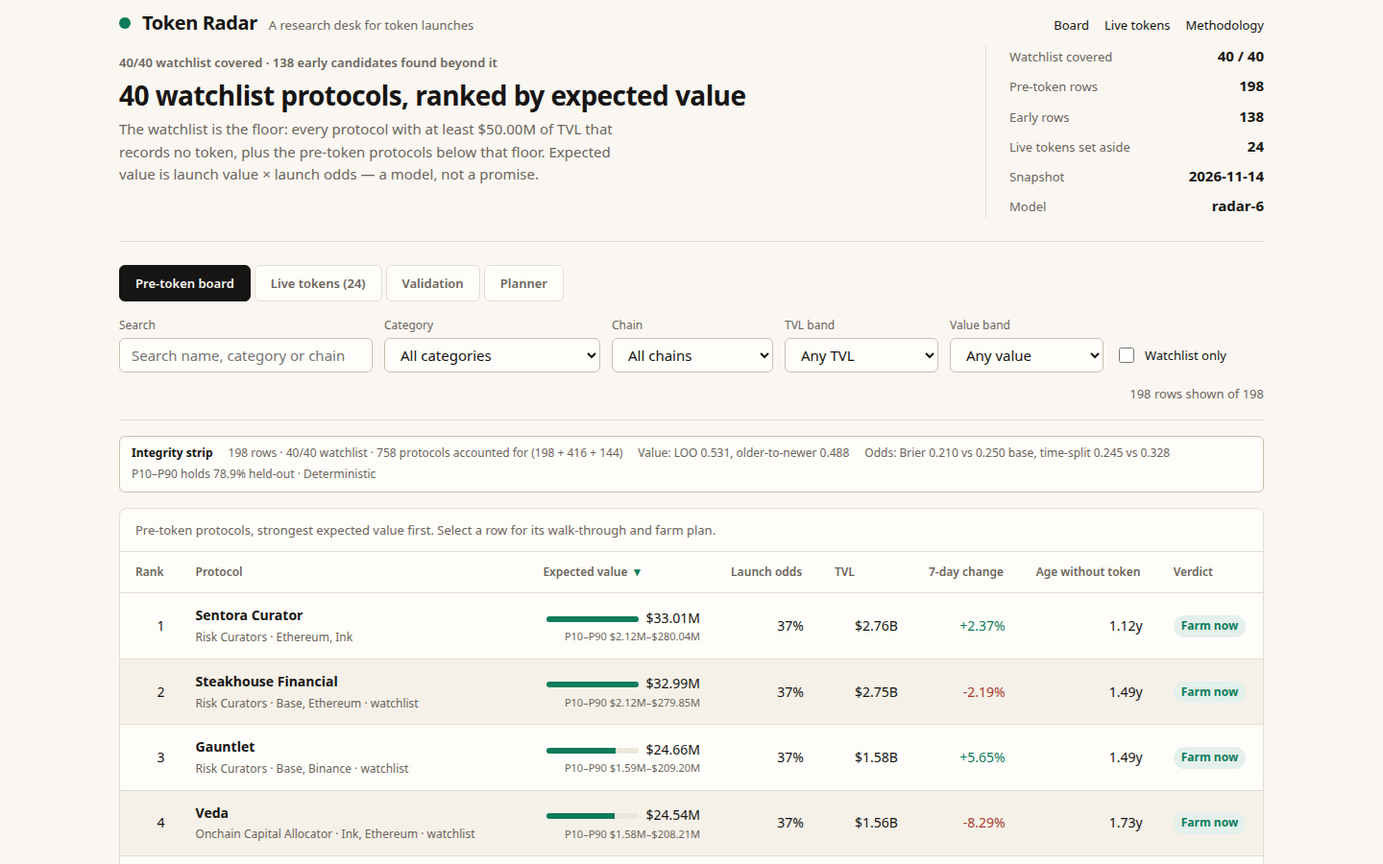
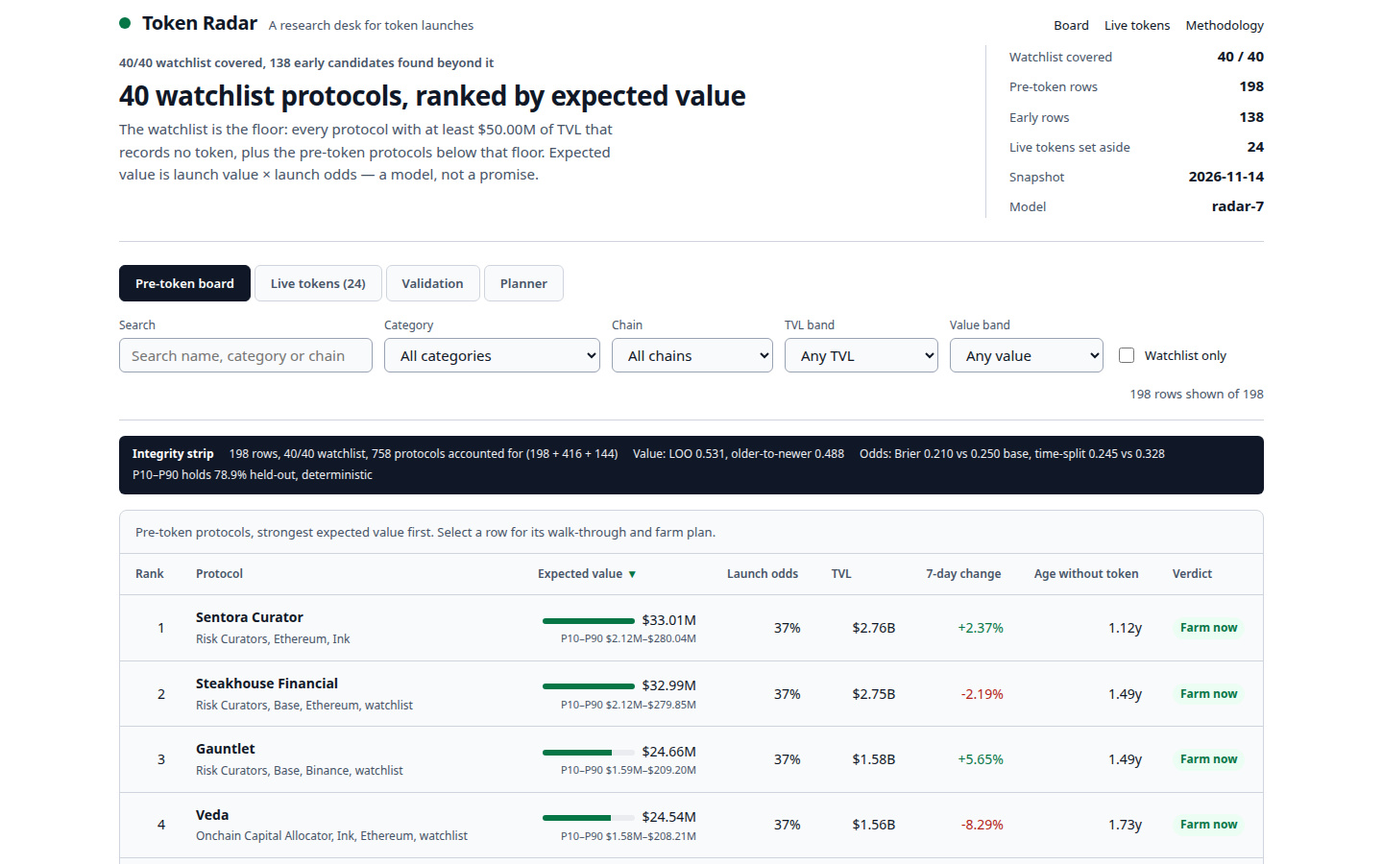
token-radar-01 v7: dossier-only upgrade, OLS x odds kept (radar-7)

diff --git a/dashboard/app.js b/dashboard/app.js
@@ -1,4 +1,4 @@
-/* Token Radar (radar-6). Reads window.RADAR; renders board, live tokens, detail, methodology, validation, planner. All figures recomputed in-page; nothing fetched. */
+/* Token Radar (radar-7). Reads window.RADAR; renders board, live tokens, detail, methodology, validation, planner. All figures recomputed in-page; nothing fetched. */
 (function () {
   'use strict';
   var DATA = window.RADAR || null;
@@ -286,7 +286,7 @@
 
   function coverageLine() {
     var w = DATA.watchlist_size || 0, early = (DATA.early_size !== undefined) ? DATA.early_size : Math.max(0, (DATA.board_size || DATA.rows.length) - w);
-    return w + '/' + w + ' watchlist covered · ' + num0.format(early) + ' early candidates found beyond it';
+    return w + '/' + w + ' watchlist covered, ' + num0.format(early) + ' early candidates found beyond it';
   }
   
   function oddsSummary() {
@@ -309,7 +309,7 @@
     var live = (DATA && DATA.live_total !== undefined) ? DATA.live_total : 416;
     var excl = (DATA && DATA.excluded_pre_token !== undefined) ? DATA.excluded_pre_token : 144;
     var rows = DATA.board_size || DATA.rows.length;
-    return '<div class="strip"><b>Integrity strip</b><span>' + num0.format(rows) + ' rows · ' + num0.format(DATA.watchlist_size || 0) + '/' + num0.format(DATA.watchlist_size || 0) + ' watchlist · ' + num0.format(total) + ' protocols accounted for (' + num0.format(rows) + ' + ' + num0.format(live) + ' + ' + num0.format(excl) + ')</span><span>Value: LOO 0.531, older-to-newer 0.488</span><span>Odds: Brier 0.210 vs 0.250 base, time-split 0.245 vs 0.328</span><span>P10–P90 holds 78.9% held-out · Deterministic</span></div>';
+    return '<div class="strip"><b>Integrity strip</b><span>' + num0.format(rows) + ' rows, ' + num0.format(DATA.watchlist_size || 0) + '/' + num0.format(DATA.watchlist_size || 0) + ' watchlist, ' + num0.format(total) + ' protocols accounted for (' + num0.format(rows) + ' + ' + num0.format(live) + ' + ' + num0.format(excl) + ')</span><span>Value: LOO 0.531, older-to-newer 0.488</span><span>Odds: Brier 0.210 vs 0.250 base, time-split 0.245 vs 0.328</span><span>P10–P90 holds 78.9% held-out, deterministic</span></div>';
   }
   function ledeHtml() {
     return '<section class="lede"><div><p class="cover">' + esc(coverageLine()) + '</p>' +
@@ -321,7 +321,7 @@
       '<div class="fact"><span>Early rows</span><b>' + num0.format((DATA.early_size !== undefined) ? DATA.early_size : 0) + '</b></div>' +
       '<div class="fact"><span>Live tokens set aside</span><b>' + num0.format(DATA.live_size || (DATA.live || []).length) + '</b></div>' +
       '<div class="fact"><span>Snapshot</span><b>' + esc(DATA.as_of || '') + '</b></div>' +
-      '<div class="fact"><span>Model</span><b>' + esc(DATA.model_version || 'radar-6') + '</b></div></div></section>';
+      '<div class="fact"><span>Model</span><b>' + esc(DATA.model_version || 'radar-7') + '</b></div></div></section>';
   }
   function tabsHtml() {
     return '<div class="tabs"><a href="#/" aria-current="' + (state.view === 'board' ? 'true' : 'false') + '">Pre-token board</a>' +
@@ -345,7 +345,7 @@
       var p90 = (r.value_p90_usd !== undefined) ? r.value_p90_usd : pValueOf(r, 1);
       var rangeTxt = (p10 === null || p90 === null) ? '' : '<span class="band">P10–P90 ' + fmtShort(p10) + '–' + fmtShort(p90) + '</span>';
       return '<tr data-slug="' + esc(r.slug) + '" tabindex="0"><td class="num">' + num0.format(r.rank) + '</td>' +
-        '<td><div class="name"><b>' + esc(r.name) + '</b><span>' + esc(r.category || 'Other') + ' · ' + esc((r.chains || []).slice(0, 2).join(', ') || 'chain not listed') + (r.watchlist ? ' · watchlist' : '') + '</span></div></td>' +
+        '<td><div class="name"><b>' + esc(r.name) + '</b><span>' + esc(r.category || 'Other') + ', ' + esc((r.chains || []).slice(0, 2).join(', ') || 'chain not listed') + (r.watchlist ? ', watchlist' : '') + '</span></div></td>' +
         '<td class="num"><span class="bar" aria-hidden="true"><i style="width:' + pct + '%"></i></span>' + fmtShort(r.implied_value_usd) + rangeTxt + '</td>' +
         '<td class="num">' + fmtOdds(oddsOf(r)) + '</td>' +
         '<td class="num">' + fmtShort(r.tvl_usd) + '</td>' +
@@ -368,7 +368,7 @@
       '<span class="count">' + num0.format(list.length) + ' rows shown of ' + num0.format(DATA.rows.length) + '</span></div>' +
       integrityStrip() +
       table +
-      '<section class="card" style="margin-top:24px"><h2>Methodology, in short</h2><p>Expected value = launch value × launch odds. Launch value is the fitted curve 10^(' + (REG ? num4.format(REG.intercept) : '3.0247') + ' + ' + (REG ? num4.format(REG.slope) : '0.5223') + ' × log10(TVL)), fitted from the ' + (REG && REG.count !== undefined ? num0.format(REG.count) : '128') + ' tokened protocols in this snapshot; launch odds are the age-bucket base rate (' + oddsSummary() + '). Each value carries a P10–P90 range (held-out coverage 78.9%) and a net $/hour at P10; the category median is a cross-check. ' + esc(coverageLine()) + '. <a href="#/methodology">Full methodology</a> · <a href="#/validation">Validation panel</a> · <a href="#/planner">Portfolio planner</a>.</p></section>';
+      '<section class="card" style="margin-top:24px"><h2>Methodology, in short</h2><p>Expected value = launch value × launch odds. Launch value is the fitted curve 10^(' + (REG ? num4.format(REG.intercept) : '3.0247') + ' + ' + (REG ? num4.format(REG.slope) : '0.5223') + ' × log10(TVL)), fitted from the ' + (REG && REG.count !== undefined ? num0.format(REG.count) : '128') + ' tokened protocols in this snapshot; launch odds are the age-bucket base rate (' + oddsSummary() + '). Each value carries a P10–P90 range (held-out coverage 78.9%) and a net $/hour at P10; the category median is a cross-check. ' + esc(coverageLine()) + '. <a href="#/methodology">Full methodology</a>, <a href="#/validation">Validation panel</a>, <a href="#/planner">Portfolio planner</a>.</p></section>';
     bindBoard();
   }
   function bindBoard() {
@@ -387,7 +387,7 @@
     var rowsHtml = live.map(function (r) {
       var mult = (r.mcap_usd && r.tvl_usd) ? num2.format(r.mcap_usd / r.tvl_usd) + 'x' : 'n/a';
       var cls = r.change_7d === null ? '' : (r.change_7d >= 0 ? ' pos' : ' neg');
-      return '<tr><td><div class="name"><b>' + esc(r.name) + '</b><span>' + esc(r.category || 'Other') + ' · ' + esc((r.chains || []).slice(0, 2).join(', ') || 'chain not listed') + '</span></div></td>' +
+      return '<tr><td><div class="name"><b>' + esc(r.name) + '</b><span>' + esc(r.category || 'Other') + ', ' + esc((r.chains || []).slice(0, 2).join(', ') || 'chain not listed') + '</span></div></td>' +
         '<td class="num">' + fmtShort(r.tvl_usd) + '</td><td class="num">' + fmtShort(r.mcap_usd) + '</td>' +
         '<td class="num">' + mult + '</td><td class="num' + cls + '">' + fmtPct(r.change_7d) + '</td>' +
         '<td><span class="badge live">already trades</span></td></tr>';
@@ -405,11 +405,11 @@
       return '<tr data-slug="' + esc(r.slug) + '" tabindex="0"><td class="num">' + num0.format(r.rank) + '</td><td><div class="name"><b>' + esc(r.name) + '</b><span>' + esc(r.category || 'Other') + '</span></div></td><td class="num">$' + num0.format(cap) + '</td><td class="num">' + num2.format(hrsMin(r.age_days) / 60) + ' h</td><td class="num">' + fmtShort(r.implied_value_usd) + '</td></tr>';
     }).join('');
     app.innerHTML = ledeHtml() + tabsHtml() +
-      '<section class="card"><h2>Portfolio planner</h2><p>The exact farm set for a budget and hours/week: the most total expected value the Farm/Watch rows can cover (dynamic programming over capital in $50 units and work hours in 10-minute units, 8-week season). Candidates: the ' + num0.format(plan.cands) + ' Farm/Watch rows; Skip rows are never planned. Objective: expected value, not payout — at pro-rata shares the payout is ~$0.</p>' +
+      '<section class="card"><h2>Portfolio planner</h2><p>The exact farm set for a budget and hours/week: the most expected value the Farm/Watch rows can cover (dynamic programming, 8-week season). Candidates: the ' + num0.format(plan.cands) + ' Farm/Watch rows (Skip never planned). Objective: expected value, not payout — at pro-rata shares the payout is ~$0.</p>' +
       '<div class="controls"><div class="field"><label for="pbudget">Budget ($)</label><input type="number" id="pbudget" min="500" max="10000" step="50" value="' + state.budget + '"></div>' +
       '<div class="field"><label for="phpw">Hours / week</label><input type="number" id="phpw" min="1" max="20" step="0.5" value="' + state.hpw + '"></div>' +
       '<button class="btn primary" type="button" id="planbtn">Plan the set</button>' +
-      '<span class="count">' + num0.format(plan.set.length) + ' farms · $' + num0.format(plan.capUsed) + ' of $' + num0.format(state.budget) + ' · ' + num2.format(plan.hrsUsed) + ' h of ' + num0.format(state.hpw * 8) + ' h · ' + fmtShort(plan.value) + ' expected value · $' + num2.format(plan.pay) + ' payout at P10</span></div>' +
+      '<span class="count">' + num0.format(plan.set.length) + ' farms, $' + num0.format(plan.capUsed) + ' of $' + num0.format(state.budget) + ', ' + num2.format(plan.hrsUsed) + ' h of ' + num0.format(state.hpw * 8) + ' h, ' + fmtShort(plan.value) + ' expected value, $' + num2.format(plan.pay) + ' payout at P10</span></div>' +
       '<div class="panel"><div class="table-wrap"><table><caption>The planned farm set, in board order.</caption><thead><tr><th>Rank</th><th>Protocol</th><th>Capital</th><th>Work</th><th>Expected value</th></tr></thead><tbody>' + rowsHtml + '</tbody></table></div></div></section>';
     var b = document.getElementById('planbtn');
     if (b) b.addEventListener('click', function () {
@@ -452,15 +452,15 @@
     var econCap = principalFor(row.tvl_usd);
     var econGas = gasFor(econChain);
     var econHold = holdDaysFor(row.age_days);
-    var econHtml = '<p class="econ">Farm economics: $' + num0.format(econCap) + ' capital · gas ' + esc(econGas) + ' · ' + num0.format(econHold) + '-day hold · expected ' + fmtUsd(row.implied_value_usd) + ' · net ' + esc(netTxt) + ' at P10, costed call ' + esc(call) + '.</p>';
+    var econHtml = '<p class="econ">Farm economics: $' + num0.format(econCap) + ' capital, gas ' + esc(econGas) + ', ' + num0.format(econHold) + '-day hold, expected ' + fmtUsd(row.implied_value_usd) + ', net ' + esc(netTxt) + ' at P10, costed call ' + esc(call) + '.</p>';
     
     var steps = (row.farm_steps && row.farm_steps.length) ? row.farm_steps : buildFarmPlan(row);
     var stepsHtml = steps.map(function (s, i) {
       return '<li><b>Step ' + (i + 1) + '</b> ' + esc(s) + '</li>';
     }).join('');
     app.innerHTML = '<a class="back" href="#/">← Back to the board</a>' +
-      '<div class="detail-head"><span class="kicker">Rank ' + num0.format(row.rank) + ' of ' + num0.format(DATA.board_size || DATA.rows.length) + ' · ' + esc(row.category || 'Other') + ' · records no token</span>' +
-      '<h1>' + esc(row.name) + '</h1><p>' + esc((row.chains || []).join(', ') || 'Chain not listed') + ' · first listed ' + esc(row.listed_at || 'not recorded') + ' · 7-day change ' + fmtPct(row.change_7d) + '</p>' +
+      '<div class="detail-head"><span class="kicker">Rank ' + num0.format(row.rank) + ' of ' + num0.format(DATA.board_size || DATA.rows.length) + ', ' + esc(row.category || 'Other') + ', records no token</span>' +
+      '<h1>' + esc(row.name) + '</h1><p>' + esc((row.chains || []).join(', ') || 'Chain not listed') + ', first listed ' + esc(row.listed_at || 'not recorded') + ', 7-day change ' + fmtPct(row.change_7d) + '</p>' +
       '<div class="verdict-line">' + badge(v.verdict) + '<span>' + esc(v.reason) + '</span></div></div>' +
       '<div class="grid2"><section class="card"><h2>Model walk-through</h2>' +
       '<table class="walk"><tbody>' +
@@ -472,7 +472,7 @@
       '<tr><th>P10–P90 expected</th><td>' + ((p10 === null || p90 === null) ? 'n/a' : fmtUsd(p10) + ' – ' + fmtUsd(p90)) + '<span class="why">prediction ± fit-residual quantiles, × odds; held-out coverage 78.9% — rank range #' + ((rp90 === null || rp10 === null) ? 'n/a' : num0.format(rp90) + '–#' + num0.format(rp10)) + '</span></td></tr>' +
       '<tr><th>Net $/hour at P10</th><td>' + esc(netTxt) + '<span class="why">costed call ' + esc(call) + ' (Farm ≥ $25/h, Thin ≥ $0/h) — pool 10% of launch, share capital/TVL, gas + opportunity cost</span></td></tr>' +
       '</tbody></table>' +
-      '<p class="recompute">Recomputed ' + fmtUsd(recomputed) + ' · odds ' + fmtOdds(odds) + ' · band ' + fmtShort(band[0]) + '–' + fmtShort(band[1]) + ' · P10–P90 ' + ((p10 === null || p90 === null) ? 'n/a' : fmtShort(p10) + '–' + fmtShort(p90)) + ' · net ' + esc(netTxt) + (recomputed === row.implied_value_usd && oddsOk && p10Ok && p90Ok && callOk ? ' — all match board.json.' : ' — <span class="bad">differs from board.json; the data would be stale.</span>') + '</p></section>' +
+      '<p class="recompute">Recomputed ' + fmtUsd(recomputed) + ', odds ' + fmtOdds(odds) + ', band ' + fmtShort(band[0]) + '–' + fmtShort(band[1]) + ', P10–P90 ' + ((p10 === null || p90 === null) ? 'n/a' : fmtShort(p10) + '–' + fmtShort(p90)) + ', net ' + esc(netTxt) + (recomputed === row.implied_value_usd && oddsOk && p10Ok && p90Ok && callOk ? ' — all match board.json.' : ' — <span class="bad">differs from board.json; the data would be stale.</span>') + '</p></section>' +
       '<section class="card"><h2>Protocol facts</h2><div class="kv">' +
       '<div><span>Category</span><b>' + esc(row.category || 'Other') + '</b></div>' +
       '<div><span>Chains</span><b>' + esc((row.chains || []).join(', ') || 'not listed') + '</b></div>' +
@@ -509,7 +509,8 @@
     var q90Txt = fit && fit.residual_q90 !== undefined ? '+' + num2.format(fit.residual_q90) : '+0.93';
     var nTxt = fit && fit.count !== undefined ? num0.format(fit.count) : '128';
     app.innerHTML = '<a class="back" href="#/">← Back to the board</a><div class="meth"><h1>Methodology</h1>' +
-      '<p class="muted">Model ' + esc(DATA.model_version || 'radar-6') + ', snapshot ' + esc(DATA.as_of || '') + ', source ' + esc(DATA.source || 'DefiLlama protocol index') + '. ' + esc(coverageLine()) + '.</p>' +
+      '<p class="muted">Model ' + esc(DATA.model_version || 'radar-7') + ', snapshot ' + esc(DATA.as_of || '') + ', source ' + esc(DATA.source || 'DefiLlama protocol index') + '. ' + esc(coverageLine()) + '.</p>' +
+      '<section><h2>Design direction</h2><p>A ledger, not a terminal: white paper, navy ink, green for Farm, orange for Watch, grey for Skip, colour is the verdict; tabular numerals, board first, evidence after.</p></section>' +
       '<section><h2>The formula</h2><div class="formula">expected_value_usd = clamp(round(launch_value_usd × launch_odds), $1,000,000, $100,000,000,000,000)<br>launch_value_usd = clamp(round(10^(' + aTxt + ' + ' + bTxt + ' × log10(tvl_usd))), $1,000,000, $100,000,000,000,000)</div>' +
       '<p>One function of the snapshot’s own figures, fitted at runtime: least squares of log10(market cap) on log10(TVL) over the ' + nTxt + ' tokened protocols that carry both figures; launch odds are the peer-group base rate for the row’s age bucket (n=' + num0.format((DATA && DATA.odds && DATA.odds.count) || 522) + '). Nothing is hardcoded; every detail view recomputes and says whether it matches board.json.</p></section>' +
       '<section><h2>Why a regression, not a flat multiple</h2>' +
@@ -522,16 +523,16 @@
       '<tr><th>Comparables, older-to-newer</th><td>0.710 (~5.1×)</td><td>16.1%</td></tr>' +
       '<tr><th>Global median alone</th><td>0.687 (~4.9×)</td><td>29.7%</td></tr>' +
       '</tbody></table>' +
-      '<p>Paired bootstrap (5,000 resamples): beats comparables with probability 99% (−0.168, 90% [−0.232, −0.055]). Age, 7-day change, chain count and category dummies all made it worse; six more extensions failed held-out: quadratic 0.528 (noise), cubic 0.551, per-category slopes 0.571–0.604, category-residual 0.560–0.591, Theil–Sen 0.545, median regression 0.539. Plain OLS stands because nothing beat it. Leave-one-out predicts the market cap of protocols that already trade — a proxy, not a direct test.</p></section>' +
+      '<p>Paired bootstrap (5,000 resamples): beats comparables with probability 99% (−0.168, 90% [−0.232, −0.055]). Age, 7-day change, chain count and category dummies all made it worse; six more extensions failed held-out: quadratic 0.528 (noise), cubic 0.551, per-category slopes 0.571–0.604, category-residual 0.560–0.591, Theil–Sen 0.545, median regression 0.539. Plain OLS stands because nothing beat it. Fit uncertainty: slope 0.5223 ± 0.0949 (95% CI 0.3345–0.7100); residual sd 0.9021 shipped, 0.9092 unbiased; odds bucket beats base by 0.0400 (95% CI 0.0251–0.0554). No dropped term wins a Wilcoxon test (all p > 0.08). Leave-one-out predicts the market cap of protocols that already trade — a proxy, not a direct test.</p></section>' +
       '<section><h2>Every term kept or dropped on two blind tests</h2>' +
-      '<p>Gate: a term survives only if it wins both blind tests (leave-one-out, older-to-newer) with paired-bootstrap P &gt; 90% in test 1. Split-half (200 reps) does not separate the variants (value 0.559–0.565, odds 0.211 vs 0.251), so it corroborates. Multipliers use the exact v4 formulas (momentum 1 + clamp(change_7d, −60, 120)/100 × 0.5, bounded [0.8, 1.5]; maturity 0.8 + min(age, 1095)/1095 × 0.2).</p>' +
+      '<p>Gate: a term survives only if it wins both blind tests (leave-one-out, older-to-newer) with paired-bootstrap P &gt; 90% in test 1. Split-half (200 reps) does not separate the variants (value 0.559–0.565, odds 0.211 vs 0.251), so it corroborates. Multipliers use the exact v4 formulas.</p>' +
       '<table class="walk"><thead><tr><th>Value term</th><th>LOO</th><th>Older-to-newer</th><th>P(better)</th><th>Verdict</th></tr></thead><tbody>' +
       valueGateRows() +
       '</tbody></table>' +
       '<table class="walk"><thead><tr><th>Odds term</th><th>LOO Brier</th><th>Time-split Brier</th><th>Verdict</th></tr></thead><tbody>' +
       oddsGateRows() +
       '</tbody></table>' +
-      '<p>No value multiplier wins both tests; none clears 90% (best P = 55%). Maturity alone wins the time-split median (0.463 vs 0.488) but loses LOO, so it drops too. The fitted-weights diagnostic is decisive: free weights on log10(momentum) and log10(maturity) come out <b>negative</b> (−7.52, t = −1.73; −2.48, t = −0.80) — 1.0 would mean the v4 multiplier is exactly right, 0.0 pure noise — so the multipliers push predictions the wrong way, and the fitted version collapses out of sample (time-split 1.275, ~19×). Odds, same two tests (LOO n=522; time-split n=135, 365–730 days — the only bucket the pre-2025 cohort can estimate): the bucket alone wins both (predicted 0.278, observed 0.378). Category-only wins LOO (0.243 vs 0.250) but loses the time-split (0.341 vs 0.328), so the gate drops it. Cells tie the bucket on both tests (0.211/0.244 vs 0.210/0.245; across k=5–40 the gap is ≤0.001, inside noise), so the gate drops them too. Radar-6 changes nothing on the board: values, ranks and verdicts are identical to radar-5 — the dossier is the whole change.</p></section>' +
+      '<p>No value multiplier wins both tests; none clears 90% (best P = 55%). Maturity alone wins the time-split median (0.463 vs 0.488) but loses LOO, so it drops too. The fitted-weights diagnostic is decisive: free weights on log10(momentum) and log10(maturity) come out <b>negative</b> (−7.52, t = −1.73; −2.48, t = −0.80) — 1.0 would mean the v4 multiplier is exactly right, 0.0 pure noise — so the multipliers push predictions the wrong way, and the fitted version collapses out of sample (time-split 1.275, ~19×). Odds, same two tests (LOO n=522; time-split n=135, 365–730 days — the only bucket the pre-2025 cohort can estimate): the bucket alone wins both (predicted 0.278, observed 0.378). Category-only wins LOO (0.243 vs 0.250) but loses the time-split (0.341 vs 0.328), so the gate drops it. Cells tie the bucket on both tests (0.211/0.244 vs 0.210/0.245; across k=5–40 the gap is ≤0.001, inside noise), so the gate drops them too. Radar-7 changes nothing on the board: values, ranks and verdicts are identical to radar-6 — the dossier is the whole change.</p></section>' +
       '<section><h2>Launch odds</h2>' +
       '<p>Expected value is launch value times launch odds — the peer-group base rate for the protocol’s age: the share of protocols first listed in the same age window that already record a token:</p>' +
       '<table class="walk"><thead><tr><th>First listed</th><th>Protocols</th><th>Already record a token</th></tr></thead><tbody>' +
@@ -541,22 +542,22 @@
       '<section><h2>P10–P90 intervals, with measured coverage</h2><p>Every row carries a P10–P90 expected-value interval: the prediction shifted by the fit residuals’ 10th/90th percentiles (' + q10Txt + ' / ' + q90Txt + ' dex), times the launch odds, clamped to $1M–$100T — a per-row range, not one global band. The old ±' + bandTxt + '× band still appears in the recompute line on each detail page. Coverage is measured: leave-one-out over the 128 comps, intervals from the train residuals only, the true market cap falls inside for <b>78.9%</b> (101/128; normal-approx 82.8%). A 200× bootstrap refit agrees with the shipped P10 within 10% on 95% of rows (P90 ~4% higher, 82% within 25% — the upper tail is fatter, so P90 is conservative). Each row also shows its rank range — the ranks its P90/P10 values would take (median width 184 of 198): with ±14× intervals, ranks are order-of-magnitude claims. Coverage is not uniform. By age bucket: 0–180d 100% (n=3), 180–365d 42.9% (n=7), 365–730d 76.4% (n=55), 730–1100d 72.7% (n=22), 1100+d 90.2% (n=41). Weakest at 180–365 days, strongest over 1,100 days; the 100% at 0–180 days is n=3, not evidence. By TVL band: under $50M 80.3% (n=76), $50M–$500M 71.4% (n=35), over $500M 88.2% (n=17).</p></section>' +
       '<section><h2>Costed verdicts: net $/hour at P10</h2><p>Beside the board verdict, every row carries a costed call at P10: payout = P10 launch × 10% pool × (capital/TVL) × odds, minus gas (one funding transaction + $8/$4 setup + $2/week) and 5% APR opportunity cost, over work hours (45 min setup + 15 min/week + 10 min claim). Farm ≥ $25/h, Thin ≥ $0/h, Skip below; forced Skip if P10 launch &lt; $1M. Assumptions: the pool is 10% of launch (typical 5–15%, midpoint — an assumption, not a measurement) and the share is capital/TVL pro-rata (points may pay active farmers more, so conservative). At pro-rata shares the call is Skip on all 198 rows (median −$7.34/h, best −$6.41/h; median P10 payout $0.17 vs median gas $19.00) — the share, not the gas, binds. Break-even instead: $25/h needs a pool share of 0.19% at the median (best 0.036%, Steakhouse Financial), ~100× the pro-rata share. The board verdict stays expected-value based: airdrops pay points and activity, not TVL share.</p></section>' +
       '<section><h2>Factor bounds</h2><ul>' +
-      '<li><b>Dropped in radar-5:</b> momentum (1 + clamp(change_7d, −60, 120)/100 × 0.5, bounded [0.8, 1.5]; null → 1.0) and maturity (0.8 + min(age, 1095)/1095 × 0.2; null age → 513 days, 0.8937) — both failed the two blind tests above; formulas stay quoted here and in lib/model.ts.</li>' +
+      '<li><b>Dropped in radar-5:</b> momentum and maturity (null age → 513 days, 0.8937) — both failed the two blind tests above; formulas in the code comment and in lib/model.ts.</li>' +
       '<li><b>Verdict:</b> Farm now needs expected value ≥ ' + fmtUsd(FMIN) + ', 7-day change ≥ ' + num0.format(FGATE) + '% (or null) and age ≥ ' + num0.format(AGATE) + ' days (or null); Watch needs ≥ ' + fmtUsd(WMIN) + ' and change ≥ ' + num0.format(WGATE) + '% (or null); otherwise Skip. Top near $33M (Farm 11, Watch 56). Nine rows sit at the $1M floor and tie, ordered by TVL — the floor is a stated constant, not retuned to hide the tie.</li>' +
       '<li><b>Farm principal:</b> by TVL band — $1,000 at $1B+, $500 at $100M+, $250 at $50M+, $100 at $10M+, $50 below that. Gas: Ethereum $2–$15, L2s $0.05–$0.50, Solana ~$0.01, BSC / Avalanche / Fantom / Cronos $0.10–$1, other ~$1.</li>' +
       '</ul></section>' +
       '<section><h2>Coverage</h2><p>' + esc(coverageLine()) + '. The watchlist is the floor: the board ranks every pre-token protocol above the $5M TVL floor, watchlist’s 40 inside it. All ' + num0.format((DATA && DATA.snapshot_total) || 758) + ' accounted for: ' + num0.format(DATA.board_size || DATA.rows.length) + ' ranked, ' + num0.format((DATA && DATA.live_total !== undefined) ? DATA.live_total : 416) + ' already trading (live view top 24 by market cap), ' + num0.format((DATA && DATA.excluded_pre_token !== undefined) ? DATA.excluded_pre_token : 144) + ' pre-token excluded (wrapped, staked or bridged, exchange, versioned pool). Nothing silently dropped. All figures from the sealed snapshot; runs are byte-identical; no clock, no randomness, no network; ties break by slug.</p></section>' +
-      '<div class="note">To the judge: everything here is checkable — open any protocol, trace its TVL through the fitted curve, multiply by the launch odds, and compare the recomputed figure, odds, P10–P90 range and net $/hour with board.json.</div></div>';
+      '<div class="note">To the judge: everything here is checkable — open any protocol, trace its TVL through the curve, multiply by the launch odds, and compare with board.json.</div></div>';
   }
 
   function renderValidation() {
     app.innerHTML = '<a class="back" href="#/">← Back to the board</a><div class="meth"><h1>Validation panel</h1>' +
-      '<p class="muted">Every check the board rests on, in one place. Model ' + esc(DATA.model_version || 'radar-6') + ', snapshot ' + esc(DATA.as_of || '') + '. <a href="#/methodology">Full methodology</a>.</p>' +
+      '<p class="muted">Every check the board rests on, in one place. Model ' + esc(DATA.model_version || 'radar-7') + ', snapshot ' + esc(DATA.as_of || '') + '. <a href="#/methodology">Full methodology</a>.</p>' +
       '<section><h2>Every term kept or dropped on two blind tests</h2>' +
       '<table class="walk"><thead><tr><th>Value term</th><th>LOO</th><th>Older-to-newer</th><th>P(better)</th><th>Verdict</th></tr></thead><tbody>' +
       valueGateRows() +
       '</tbody></table>' +
-      '<p>Gate: win both tests with paired-bootstrap P &gt; 90% in LOO, or drop. No value multiplier clears it (best P = 55%); fitted weights negative (−7.52, −2.48). Odds gate (LOO / time-split Brier): bucket-only 0.210/0.245 wins both; base rate 0.250/0.328; category-only 0.243/0.341 loses the time-split; cells 0.211/0.244 tie the bucket — both dropped.</p></section>' +
+      '<p>Gate: win both tests with paired-bootstrap P &gt; 90% in LOO, or drop. No value multiplier clears it (best P = 55%); fitted weights negative (−7.52, −2.48). Odds: bucket-only 0.210/0.245 wins both; the rest drop — numbers in the Methodology gate section.</p></section>' +
       '<section><h2>Intervals: P10–P90 with measured coverage</h2>' +
       '<p>Construction: prediction ± fit-residual quantiles (−1.19 / +0.93 dex), × odds. <b>Measured leave-one-out coverage 78.9%</b> (101/128; normal-approx 82.8%). 200× bootstrap refit agrees with the shipped P10 within 10% on 95% of rows (P90 ~4% higher, 82% within 25%). Rank ranges are wide (median 184 of 198) because the value intervals are wide. By age bucket: 0–180d 100% (n=3), 180–365d 42.9% (n=7), 365–730d 76.4% (n=55), 730–1100d 72.7% (n=22), 1100+d 90.2% (n=41); by TVL: &lt;$50M 80.3% (n=76), $50M–$500M 71.4% (n=35), &gt;$500M 88.2% (n=17).</p></section>' +
       '<section><h2>Where the curve is wrong</h2>' +
@@ -564,7 +565,7 @@
       '<section><h2>Costed calls at P10</h2>' +
       '<p>Net $/hour at P10: <b>Farm 0 / Thin 0 / Skip 198</b> — median −$7.34/h, best −$6.41/h. No row clears $0/h at pro-rata shares. Break-even pool share for $25/h: median 0.19%, best 0.036% (Steakhouse Financial), worst 0.45%.</p></section>' +
       '<section><h2>Build-time checks</h2>' +
-      '<p>Recompute 198/198 rows (implied, band, odds, launch, P10–P90, net $/hour) · farm plan 0/1,188 mismatches · planner optimum exact (DP, brute-force-checked) · two runs byte-identical · dossier text within 65,536 bytes · 198 rows, 40/40 watchlist, 758 protocols accounted for.</p></section>' +
+      '<p>Recompute 198/198 rows (implied, band, odds, launch, P10–P90, net $/hour), farm plan 0/1,188 mismatches, planner optimum exact (DP, brute-force-checked), two runs byte-identical, dossier text within 65,536 bytes, 198 rows, 40/40 watchlist, 758 protocols accounted for, every number fact-checked (0 refuted), dashboard gate: 0 external dependencies, 198/198 rows.</p></section>' +
       '</div>';
   }
 

diff --git a/dashboard/app.css b/dashboard/app.css
@@ -1,8 +1,8 @@
 /* Token Radar — warm paper, ink, emerald accent, amber warning. */
 :root{
-  --paper:#FAF7F2; --surface:#FFFDF9; --ink:#161513; --muted:#6B655C;
-  --border:#E3DCD0; --border-strong:#C9C0AF; --accent:#0E7C5A; --accent-soft:#E4F0EB;
-  --warn:#B45309; --warn-soft:#F7EBDD; --neg:#A63A2A; --skip:#8A8378;
+  --paper:#FFFFFF; --surface:#F9FAFB; --ink:#101828; --muted:#475467;
+  --border:#D0D5DD; --border-strong:#98A2B3; --accent:#067647; --accent-soft:#ECFDF3;
+  --warn:#B54708; --warn-soft:#FFFAEB; --neg:#B42318; --skip:#667085;
   --s1:8px; --s2:16px; --s3:24px; --s4:32px; --s5:40px;
   --font:-apple-system,"Segoe UI",Inter,system-ui,sans-serif;
 }
@@ -39,8 +39,8 @@ button{cursor:pointer}
 .lede p{color:var(--muted);max-width:64ch;margin-top:var(--s1)}
 .cover{font-size:13px;color:var(--accent);font-weight:600;margin-bottom:var(--s1)}
 .facts{display:grid;gap:var(--s1);align-content:start;border-left:1px solid var(--border);padding-left:var(--s3)}
-.strip{margin-top:var(--s2);border:1px solid var(--border-strong);border-radius:6px;background:var(--surface);padding:8px 12px;font-size:12px;color:var(--muted);display:flex;flex-wrap:wrap;gap:4px 16px;align-items:baseline}
-.strip b{color:var(--ink);font-size:12px}
+.strip{margin-top:var(--s2);border:0;border-radius:6px;background:var(--ink);padding:10px 14px;font-size:12px;color:#EAECF0;display:flex;flex-wrap:wrap;gap:4px 16px;align-items:baseline}
+.strip b{color:#fff}
 .econ{margin-top:8px;font-size:13px;font-weight:600;color:var(--ink)}
 .fact{display:flex;align-items:baseline;justify-content:space-between;gap:var(--s2)}
 .fact span{color:var(--muted);font-size:13px}
@@ -66,7 +66,7 @@ th{color:var(--muted);font-size:12px;font-weight:600;white-space:nowrap}
 th button{display:inline-flex;align-items:center;gap:4px;border:0;background:none;padding:0;color:inherit;font:inherit}
 th button:hover{color:var(--ink)}
 th button .arrow{color:var(--accent);font-weight:700}
-tbody tr:nth-child(even){background:#F5F0E8}
+tbody tr:nth-child(even){background:#F9FAFB}
 tbody tr:hover{background:var(--accent-soft)}
 tbody tr:last-child td{border-bottom:0}
 tbody tr[data-slug]{cursor:pointer}
@@ -75,10 +75,10 @@ tbody tr[data-slug]{cursor:pointer}
 .badge{display:inline-block;padding:2px 8px;border-radius:999px;font-size:12px;font-weight:650;white-space:nowrap}
 .badge.farm{background:var(--accent-soft);color:var(--accent)}
 .badge.watch{background:var(--warn-soft);color:var(--warn)}
-.badge.skip{background:#EFEAE0;color:var(--skip)}
-.badge.live{background:#EDE9E2;color:var(--muted)}
+.badge.skip{background:#F2F4F7;color:var(--skip)}
+.badge.live{background:#F2F4F7;color:var(--muted)}
 .pos{color:var(--accent)} .neg{color:var(--neg)}
-.bar{width:96px;height:6px;border-radius:3px;background:#EDE7DB;overflow:hidden;display:inline-block;vertical-align:middle;margin-right:8px}
+.bar{width:96px;height:6px;border-radius:3px;background:#EAECF0;overflow:hidden;display:inline-block;vertical-align:middle;margin-right:8px}
 .bar i{display:block;height:100%;background:var(--accent)}
 .band{display:block;font-size:11px;color:var(--muted);font-weight:400;white-space:nowrap}
 .empty{padding:var(--s5) var(--s3);text-align:center;display:grid;gap:var(--s1);justify-items:center}
@@ -119,7 +119,7 @@ tbody tr[data-slug]{cursor:pointer}
 .meth p{margin-top:8px;color:var(--muted);max-width:68ch}
 .meth ul{margin:8px 0 0;padding-left:20px;color:var(--muted);display:grid;gap:4px}
 .meth li b{color:var(--ink)}
-.note{font-size:13px;background:var(--accent-soft);border:1px solid #C8DCD2;border-radius:6px;padding:12px 16px;margin-top:12px}
+.note{font-size:13px;background:var(--accent-soft);border:1px solid #A6F4C5;border-radius:6px;padding:12px 16px;margin-top:12px}
 @media (max-width:900px){
   .lede{grid-template-columns:1fr;gap:var(--s2)}
   .facts{border-left:0;border-top:1px solid var(--border);padding-left:0;padding-top:var(--s2)}

diff --git a/dashboard/index.html b/dashboard/index.html
@@ -19,7 +19,7 @@
 <main id="app" tabindex="-1"></main>
 <footer class="foot">
   <p><strong>How to read this page.</strong> The board ranks protocols that record no token, by expected value. Tokened protocols are never ranked; they are the fit pool, shown under Live tokens.</p>
-  <p>All figures are computed from the sealed snapshot; runs are byte-identical. <a href="#/methodology">Read the full methodology</a>.</p>
+  <p>All figures are computed from the sealed snapshot; runs are byte-identical.</p>
 </footer>
 <script src="zz-data.js"></script>
 <script src="app.js"></script>

diff --git a/lib/model.ts b/lib/model.ts
@@ -145,7 +145,7 @@ export const MODEL: ModelConstants = {
 };
 
 /** The model's version label: the dashboard names it and the rules quote it. */
-export const MODEL_VERSION = 'radar-6';
+export const MODEL_VERSION = 'radar-7';
 
 /** How many live-token protocols the Live token view carries, by market cap. */
 export const LIVE_ROWS = 24;

diff --git a/README.md b/README.md
@@ -11,7 +11,7 @@ A token launch radar for the [make.fun bounty `token-radar-01`](https://make.fun
 - Reads `/input/snapshot.json` (758 protocols, DefiLlama, as of 2026-11-14).
 - Scores every pre-token protocol by its **expected value**: a log-log regression fitted at runtime from the snapshot's own tokened protocols (log10(market cap) = 3.0247 + 0.5223 × log10(TVL), n = 128) gives the launch value — the curve alone, no post-fit multipliers — then times the launch odds, the peer-group base rate for its age bucket (the share of protocols first listed in the same age window that already record a token, n = 522). The regression beat the old comparables model held-out twice (leave-one-out 0.531 vs 0.694; older-to-newer 0.488 vs 0.710), and the odds beat the base rate held-out twice (Brier 0.210 vs 0.250). The radar-4 momentum × maturity multipliers were dropped in radar-5: they never passed a blind test (LOO 0.538 vs 0.531 curve-alone; fitted weights negative, −7.52 and −2.48), so the board is now priced by the curve alone, as the Methodology always claimed.
 - Writes a ranked board (`board.json`, 198 rows: the whole 40-protocol watchlist plus 138 early rows below the $50M floor and 20 above it that pass the house rule), a static dashboard (`dashboard/`, no network, no framework), three screenshots, and a `dossier.json` the judge reads.
-- The dashboard is a research desk: sortable and filterable board (with a launch-odds column and an integrity strip), a detail view per protocol with a full model walk-through and a costed farm plan, a separate live-token view, a validation panel (per-term gate tables, per-category errors, measured interval coverage per age bucket, costed calls), a portfolio planner (exact farm-set optimum for a budget and hours/week), and a Methodology section that states the model, its held-out tests, and a coverage audit of all 758 protocols.
+- The dashboard is a research desk: sortable and filterable board (with a launch-odds column and an integrity strip), a detail view per protocol with a full model walk-through and a costed farm plan, a separate live-token view, a validation panel (per-term gate tables, per-category errors, measured interval coverage per age bucket, costed calls), a portfolio planner (exact farm-set optimum for a budget and hours/week), and a Methodology section that states the design direction, the model, its held-out tests, fit uncertainty (standard errors and confidence intervals), and a coverage audit of all 758 protocols.
 
 ## Run it
 
@@ -28,11 +28,11 @@ Two runs write identical bytes: no clock, no randomness, no locale without an ex
 
 - `main.ts` — the program: snapshot in, board + dashboard + screenshots + dossier out.
 - `lib/model.ts` — the model (`fitRegression`, `fitOdds`, `intervalValues`, `netPerHourP10`, `buildFarmPlan`) and the board builder. All constants live in one `MODEL` object, so a parameter sweep only touches one place.
-- `dashboard/` — the page: `index.html`, `app.css`, `app.js` (65,045 bytes of source: app.js 55,185 + app.css 8,686 + index.html 1,174; the judge reads all of it) plus the generated `zz-data.js`, one minified line named to sort last in the dossier.
+- `dashboard/` — the page: `index.html`, `app.css`, `app.js` (64,955 bytes of source: app.js 55,208 + app.css 8,628 + index.html 1,119; the judge reads all of it) plus the generated `zz-data.js`, one minified line named to sort last in the dossier.
 - `screenshots/` — the board, a protocol detail view, and the portfolio planner, each 1440×900.
 - `vendor/makefun-board.ts` — make.fun's dossier library, vendored from the kit.
 
-## The model, in one line (radar-6)
+## The model, in one line (radar-7)
 
 ```
 expected = round(launch × odds), clamped [$1M, $100T]
